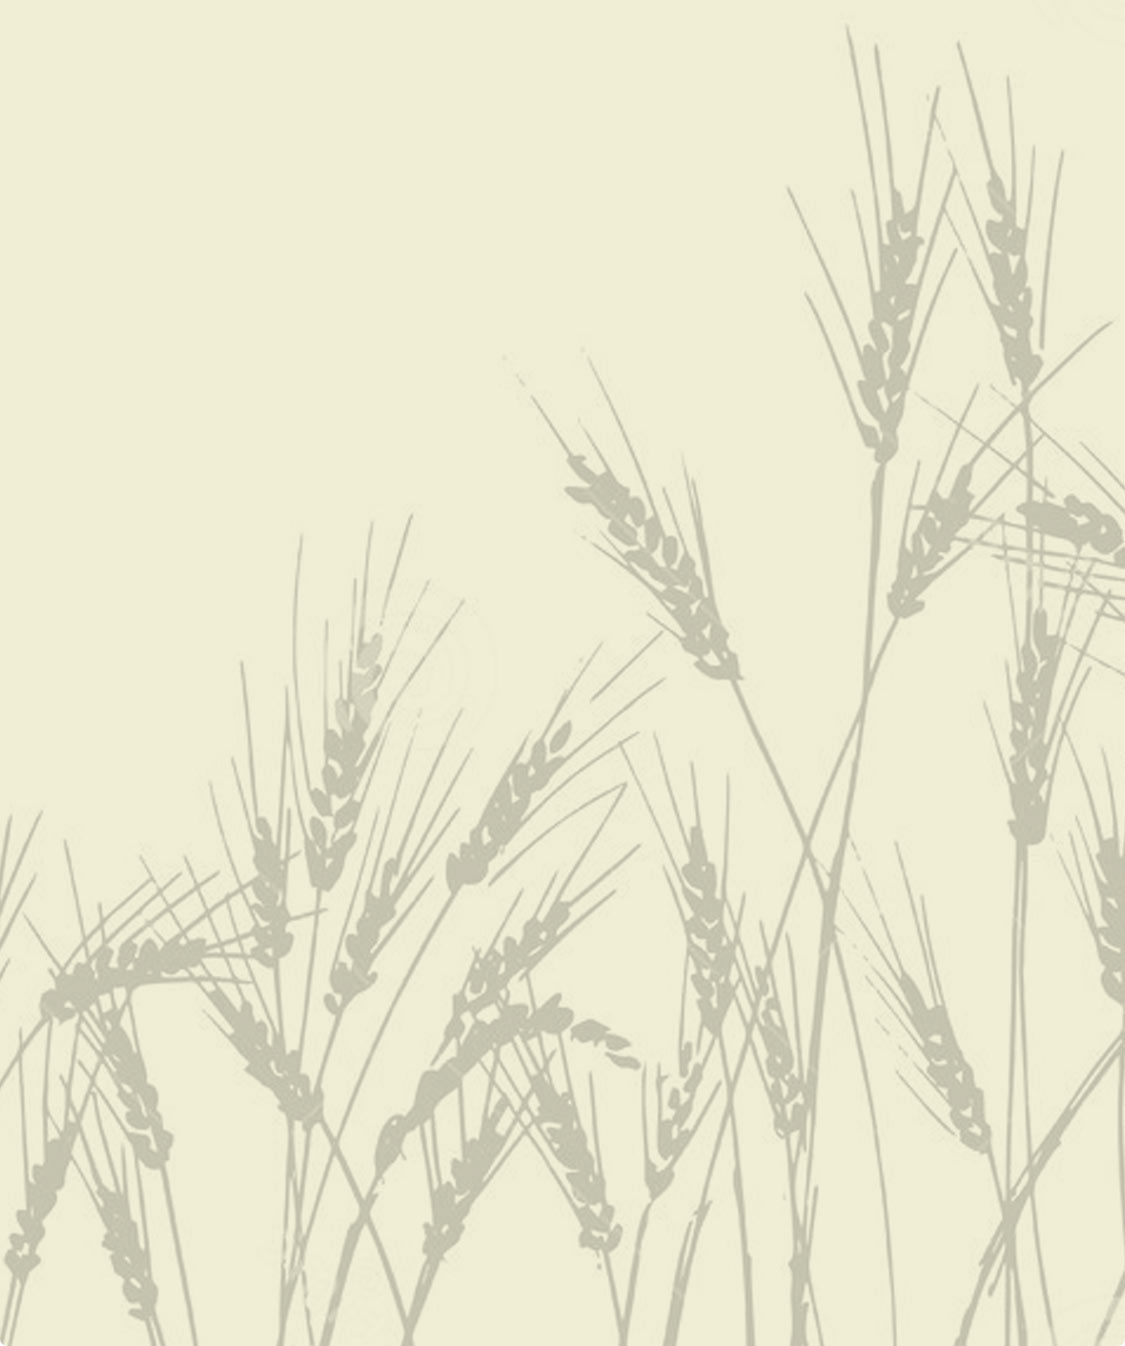
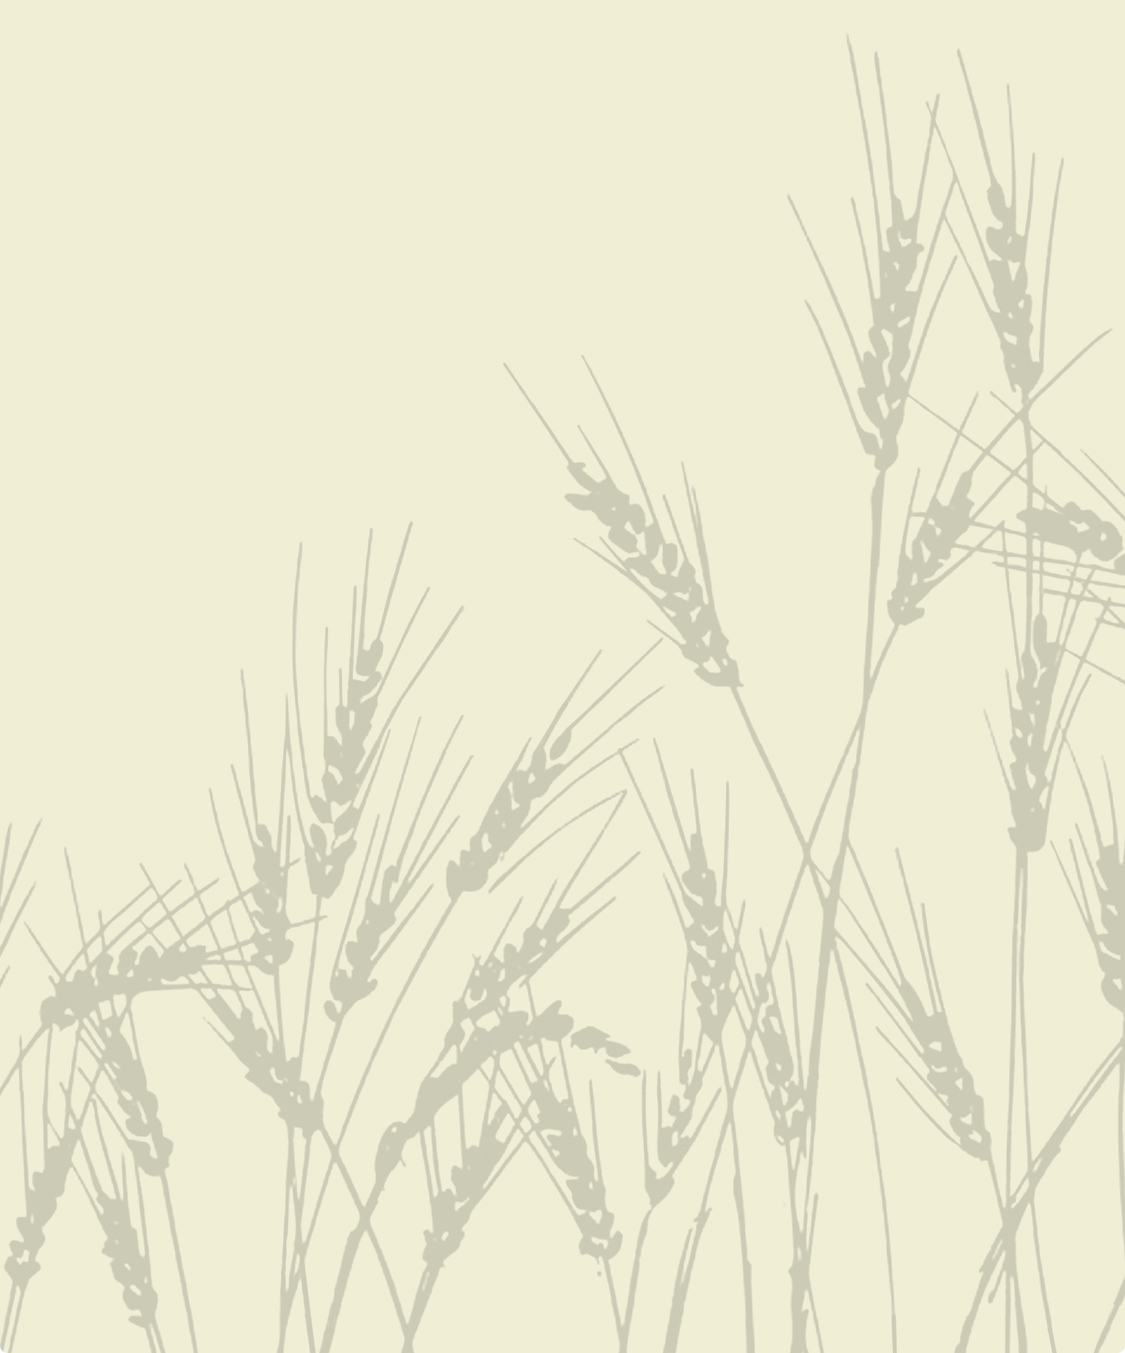
обновил изображения фонов

diff --git a/local/templates/.default/css/style.css b/local/templates/.default/css/style.css
@@ -246,7 +246,10 @@ address {
     left: 0;
     right: 0;
     bottom: 0;
-    top: 0; }
+    top: 0;
+    background-size: cover;
+    background-position: center;
+    background-image: url("../images/bg-slider.jpg"); }
   .header-slider__item {
     transition: opacity 1s ease;
     opacity: 0;

diff --git a/markup/src/scss/header.scss b/markup/src/scss/header.scss
@@ -22,6 +22,9 @@
         right: 0;
         bottom: 0;
         top: 0;
+        background-size: cover;
+        background-position: center;
+        background-image: url('../images/bg-slider.jpg');
     }
 
     &__item {
